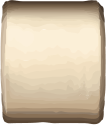
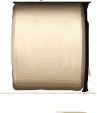
Slot machine: smaller machine, 3-layer glass tube, no bottom funnel; shadow, reel fixes, session report

diff --git a/tools/export_slot_machine.py b/tools/export_slot_machine.py
@@ -47,79 +47,99 @@ def part(idx, grow=6.0, with_sh=False, with_img=False):
 
 
 # ---- the finished machine (bottom right of the page) -----------------------------------------------------------------------
-print("cabinet, funnels, tube")
-img, at = part(range(376, 664))
+# The paint operators of the page come in this order (found by looking at where the clumps are on the page; the last line of the file said which index each
+# one has): the tube with its clamps and collar, the top funnel, the cabinet (frame, then the three reels, then the 8 lamp sockets), the Bag strip, the lever, ...
+# There is no bottom funnel any more (the tube starts right under the cabinet), and the whole machine is smaller than the first version.
+def clump_start(near):
+    for k, d in enumerate(S.dr):
+        r = d["rect"]
+        if abs(r.x0 - near[0]) < 2 and abs(r.y0 - near[1]) < 2:
+            return k
+    raise SystemExit("no path at %s" % (near,))
+
+
+print("cabinet, funnel, tube")
+FUNNEL_OPS = list(range(603, 891))
+BODY_OPS = list(range(891, 2648))
+REEL_OPS = list(range(2648, 2932))
+LAMPSOCKET_OPS = list(range(2932, 2940))
+LEVER_OPS = list(range(3294, 3461))
+for name, ops, ref in (("funnel", FUNNEL_OPS, (1746, 715)), ("lever", LEVER_OPS, (1703, 798))):
+    r = S.box(ops)
+    assert abs(r.x0 - ref[0]) < 8 and abs(r.y0 - ref[1]) < 8, (name, r)  # (the page was edited: look at the indexes again)
+
+img, at = part(FUNNEL_OPS)
 save("slot_funnel_top", img, at)
 
-body_idx = list(range(664, 2421))
-img, at = part(body_idx)
-# the window well behind the reels (the page has none: the reels fill it): dark, a touch lighter at the top
-well = pymupdf.Rect(1657.0, 685.0, 1827.0, 759.0)
+# the cabinet: the frame and the sockets of the lamps (the reels, the lamps and the lever are separate pieces)
+rbox = S.box(REEL_OPS[1:])  # (the first operator is the shadow of the window: it is not a reel)
+well = pymupdf.Rect(rbox.x0 - 5.0, rbox.y0 - 4.0, rbox.x1 + 5.0, rbox.y1 + 4.0)
+img, at = part(BODY_OPS + LAMPSOCKET_OPS)
+# the window well behind the reels (the page has none: the reels fill it): dark
 canvas = Image.new("RGBA", img.size, (0, 0, 0, 0))
 dr_ = ImageDraw.Draw(canvas)
 dr_.rectangle([(well.x0 - at[0]) * Z, (well.y0 - at[1]) * Z, (well.x1 - at[0]) * Z, (well.y1 - at[1]) * Z], fill=(34, 24, 19, 255))
 canvas.alpha_composite(img)
 save("slot_body", canvas, at)
 
-funnel, clamp, tube = [], [], []
-for i in range(0, 376):
-    d = S.dr[i]
-    r = d["rect"]
-    f = d.get("fill") or d.get("color") or (0, 0, 0)
-    dark = max(f) < 0.3 and abs(f[0] - f[2]) < 0.08
-    if r.y1 <= 871 and r.x0 > 1630 and f[0] > f[2] + 0.05 and f[0] < 0.7 and not dark:
-        funnel.append(i)
-    elif dark:
-        clamp.append(i)
-    else:
-        tube.append(i)
-img, at = part(funnel)
-save("slot_funnel_bottom", img, at)
-# the tube and its clamps share one canvas (the same top-left), so they lie exactly over each other
-box = S.box(tube + clamp)
-clip = pymupdf.Rect(box.x0 - 4, box.y0 - 4, box.x1 + 4, box.y1 + 4)
-for name, idx in (("slot_tube", tube), ("slot_tube_clamps", clamp)):
-    im = S.render(idx, clip, Z)
-    save(name, im, (clip.x0, clip.y0))
+# the glass tube is three layers, each drawn in its own frame on the left of the page (the three frames share one coordinate system with the "demo" frame, which
+# shows the tube as it looks assembled; the finished machine's tube has the very same size as the metal layer, so that is what gives the shift to the game):
+#   glass_under: under the Essence (normal, 100 %)   glass: over the Essence (Screen blend, 50 %)   metal (collars, clamps): over everything (normal, 100 %)
+FRAMES = {"slot_tube_glass": (439.56, 269.66, range(296, 457)), "slot_tube_metal": (687.85, 269.66, range(457, 587)),
+          "slot_tube_glass_under": (942.42, 269.66, range(587, 603))}
+mb = S.box(list(FRAMES["slot_tube_metal"][2]))
+fin = S.box(list(range(2, 296)))  # (the tube of the finished machine at the bottom right)
+assert abs(mb.width - fin.width) < 0.5 and abs(mb.height - fin.height) < 0.5, (mb, fin)
+sx = fin.x0 - (mb.x0 - FRAMES["slot_tube_metal"][0])  # game x of a frame's left edge
+sy = fin.y0 - (mb.y0 - FRAMES["slot_tube_metal"][1])
+union = None
+for name, (ox, oy, rg) in FRAMES.items():
+    b = S.box(list(rg))
+    b = pymupdf.Rect(b.x0 - ox, b.y0 - oy, b.x1 - ox, b.y1 - oy)
+    union = b if union is None else union | b
+for name, (ox, oy, rg) in FRAMES.items():
+    clip = pymupdf.Rect(ox + union.x0 - 4, oy + union.y0 - 4, ox + union.x1 + 4, oy + union.y1 + 4)
+    im = S.render(list(rg), clip, Z)
+    save(name, im, (sx + union.x0 - 4, sy + union.y0 - 4))
 
-# ---- the loose pieces (left of the machines) ---------------------------------------------------------------------------------
+# ---- the reels, the lever and the lamps of the finished machine ----------------------------------------------------------------
 print("reel, lever, lamps")
-reel_idx = list(range(5921, 6158))
-rbox = S.box(reel_idx)
+reel_idx = REEL_OPS[1:]
 third = rbox.width / 3.0
-mid = [i for i in reel_idx if rbox.x0 + third <= (S.dr[i]["rect"].x0 + S.dr[i]["rect"].x1) / 2 < rbox.x0 + 2 * third]
-img, at = part(mid, grow=4.0)
+thirds = [[i for i in reel_idx if rbox.x0 + k * third <= (S.dr[i]["rect"].x0 + S.dr[i]["rect"].x1) / 2 < rbox.x0 + (k + 1) * third + (0.01 if k == 2 else 0)] for k in range(3)]
+img, at = part(thirds[1], grow=4.0)
 save("slot_reel", img, at)
+reel_left = [S.box(t).x0 for t in thirds]
+reel_top = S.box(thirds[1]).y0
 
-lever_idx = list(range(3067, 3234))  # (the lever of the finished machine: the same drawing as the loose one, already in place)
-img, at = part(lever_idx, grow=28.0, with_sh=True, with_img=True)
+img, at = part(LEVER_OPS, grow=14.0, with_sh=True, with_img=True)
 save("slot_lever", img, at)
 
-lamp_idx = list(range(5905, 5921))
+# the lamps: the 8 shadings on the cabinet's strip are the lamps ON the page; the loose ones (left of the page) give the two pictures, scaled to the machine
+lamp_sh = sorted({round(x, 1) for ti, x, y in S.shadings if x > 1650 and 700 < y < 800 and abs(y - min(yy for _, xx, yy in S.shadings if xx > 1650 and yy > 700)) < 1.0})
+assert len(lamp_sh) == 8, lamp_sh
+lamp_y = min(yy for _, xx, yy in S.shadings if xx > 1650 and yy > 700)
+spacing = lamp_sh[1] - lamp_sh[0]
+lamp_zoom = Z * spacing / 22.83  # (the loose lamps are 22.83 pt apart on the page; the machine's are smaller)
+lamp_idx = list(range(6132, 6148))
 lbox = S.box(lamp_idx)
 clip = pymupdf.Rect(lbox.x0 - 20, lbox.y0 - 30, lbox.x1 + 20, lbox.y1 + 25)
 rows = {}
 for ti, x, y in S.shadings:
     if clip.x0 <= x <= clip.x1 and clip.y0 <= y <= clip.y1:
         rows.setdefault(round(y / 4.0), []).append((x, y, ti))
-print("  lamp rows (y):", {k * 4: len(v) for k, v in rows.items()})
 ys = sorted(rows)
 for name, key in (("slot_lamp_on", ys[0]), ("slot_lamp_off", ys[-1])):
-    lamps = sorted(rows[key])
-    x, y, _ = lamps[0]
+    x, y, _ = sorted(rows[key])[0]
     c = pymupdf.Rect(x - 12, y - 12, x + 12, y + 12)
     sh = [ti for ti, sx, sy in S.shadings if c.x0 <= sx <= c.x1 and c.y0 <= sy <= c.y1]
-    im = [ti for ti, x0, y0, x1, y1 in S.images if c.x0 <= (x0 + x1) / 2 <= c.x1 and c.y0 <= (y0 + y1) / 2 <= c.y1]
-    img = S.render([], c, Z, shadings=sh, images=im)
-    img, at = S.trim(img, Z, (c.x0, c.y0))
-    save(name, img, at)
-
-# where the 8 lamps of the finished machine are (centres): the 8 small pictures on its lamp strip
-lamp_sh = sorted({round(x, 1) for ti, x, y in S.shadings if abs(y - 668.3) < 1.0})
-assert len(lamp_sh) == 8, lamp_sh
+    img = S.render([], c, lamp_zoom, shadings=sh)
+    box_ = img.getchannel("A").point(lambda v: 255 if v > 6 else 0).getbbox()
+    img = img.crop(box_)
+    img.save(os.path.join(OUT, name + ".png"))
+    layout[name] = (x - 12 + box_[0] / lamp_zoom, y - 12 + box_[1] / lamp_zoom, img.width / lamp_zoom, img.height / lamp_zoom)
+    print("  %-22s %d x %d px" % (name, img.width, img.height))
 lamp_imgs = lamp_sh
-lamp_y = 668.3
-print("  lamp strip centres x:", [round(v, 1) for v in lamp_imgs], "y", round(lamp_y, 1))
 
 # ---- the port (end of the Bag strip) ---------------------------------------------------------------------------------------
 print("port")
@@ -132,14 +152,12 @@ for name, entry in (("slot_port", ports[0]), ("slot_port_ring", ports[1])):
     save(name, img, at)
 
 # ---- the lever's pulled place ----------------------------------------------------------------------------------------------
-# idle: the knob is straight above the hub; pulled (the machine at the top of the page): the knob is level with the hub, on its right
+# idle: the knob is straight above the hub (the silver ring at the bottom of the picture); pulled: the knob is level with the hub, on its right
 lv = layout["slot_lever"]
-hub = (lv[0] + lv[2] / 2.0, lv[1] + lv[3] - 13.0 - 3.0)  # (bottom of the picture is the hub's silver ring, 13 pt radius, 3 pt of margin)
-
-# ---- the reels' places (of the finished machine) -------------------------------------------------------------------------
+hub = (lv[0] + lv[2] / 2.0, lv[1] + lv[3] - lv[2] / 2.0)
 reel = layout["slot_reel"]
-reel_dx = [1662.0 + 0.5, 1716.0 + 0.5, 1769.0 + 0.5]  # (left edges of the three drums in the window)
-reel_y = 690.5
+reel_dx = [reel[0] + (k - 1) * third for k in range(3)]  # (the picture of the middle drum, moved by one drum pitch to each side)
+reel_y = reel_top
 
 with open(GD, "w", encoding="utf-8", newline="\n") as f:
     f.write("class_name PuppetSlotMachine\nextends RefCounted\n")
@@ -154,6 +172,7 @@ with open(GD, "w", encoding="utf-8", newline="\n") as f:
     f.write("const REEL_SIZE := Vector2(%.2f, %.2f)\n" % (reel[2], reel[3]))
     f.write("const LAMP_X := [%s]\n" % ", ".join("%.1f" % v for v in lamp_imgs))
     f.write("const LAMP_Y := %.1f\n" % lamp_y)
+    f.write("const LAMP_SIZE := Vector2(%.2f, %.2f)\n" % (layout["slot_lamp_on"][2], layout["slot_lamp_on"][3]))
     f.write("\n## The lever turns about its hub; PULLED_ANGLE is how far it turns (radians, clockwise on the screen) when it is pulled down.\n")
     f.write("const LEVER_HUB := Vector2(%.1f, %.1f)\nconst LEVER_PULLED_ANGLE := %.5f\n" % (hub[0], hub[1], math.pi / 2.0))
     f.write("\n## The port: where Essence come up out of the Bag strip (centre).\n")

diff --git a/docs/session_2026_10_17.md b/docs/session_2026_10_17.md
@@ -1,0 +1,21 @@
+# Báo cáo phiên làm việc 17/10/2026 — The Last Tree (Puppet Stage)
+
+## Đã hoàn thành
+
+1. **Làm lại hình 13 kẻ địch Act 1.** Viết lại prompt và tạo ảnh mới (Forge Spirit, Greenseer, Hush Moth, Invoker, Mirror Fairy, hai Rolling Bear, Tomato Knight, ba Triplet, Winged Tortoise, Yeti), tách nền bằng BiRefNet, giữ nguyên kích thước gốc và đưa vào game. Tách ba quả cầu của Invoker để chúng lơ lửng trên lòng bàn tay.
+2. **Sửa công cụ tạo ảnh nhiều tài khoản (ImageSet).** Phát hiện lỗi vẽ lại cả những ảnh đã có khi chạy lại, gây lãng phí lượt và thời gian; đã sửa và thêm test.
+3. **Chế độ gắn dây cho kẻ địch (phím F5 trong Room Test).** Chia kẻ địch theo bộ 4 con, gắn / kéo / xóa rivet bằng chuột, dây kéo theo khi kẻ địch di chuyển. Dây hiển thị trong các trận thật; dữ liệu lưu ở `data/enemy_ropes.json` (có file dự phòng).
+4. **Boss Handyman.** Cập nhật theo file PDF mới (tay Shield sang trái, Sword sang phải), các tay chưa được gọi thì không hiện, tay Nhíp chọc đúng quả orb cần trộm và kéo mượt về hàng HP; sửa lỗi crash khi trộm orb.
+5. **Bản đồ.** Node vừa rời đi hiện biểu tượng "đã đi qua".
+6. **Làm lại hoàn toàn máy tạo orb (slot machine).**
+   - Tách file thiết kế PDF thành các mảnh (thân máy, phễu, ba trục, cần gạt, đèn, ống thủy tinh ba lớp, miệng ống) bằng một công cụ tự động; cập nhật lại mỗi khi sửa PDF.
+   - Luồng mới: cần gạt kéo, ba trục quay 2 giây rồi dừng đúng các orb của lượt sau; đến lượt, orb thật rơi từ sau máy, đi qua ống thủy tinh và lăn vào túi.
+   - Orb thưởng (thẻ bài, chai, artifact...) đi từ phễu trên xuống ống rồi vào túi, độc lập với máy.
+   - Sửa lỗi túi có sẵn orb khi bắt đầu trận; thêm bóng đổ phía sau máy.
+7. **Hợp nhất nhánh `main` vào `Banana-Fork`** (9 commit mới), xử lý một xung đột.
+
+## Còn tồn đọng / việc tiếp theo
+- Test `test_new_commons` đang báo lỗi (khác một dấu chấm cuối câu trong mô tả spell, liên quan nội dung mới của `main`).
+- Dây hiển thị trong trận thật nhưng người chơi chỉ có thể chỉnh trong chế độ F5 của Room Test; kẻ địch còn lại cần được gắn dây.
+- Lớp kính ống hiện trong suốt hơn bản cũ (theo đúng ghi chú Screen 50% của file thiết kế); nếu cần đặc hơn thì phải vẽ thêm lớp nền.
+- Âm thanh máy chỉ có `sfx_lever_pull` và `sfx_reel_stop` (cố ý ít tiếng).

diff --git a/docs/art_progress.md b/docs/art_progress.md
@@ -133,3 +133,6 @@ Source of truth for art: `assets/ui/Fight UI.pdf`, cut into `assets/ui/new/<fold
 - Done: encounter flow (props clear, cards fly in after Begin; "Begin" goes straight in, no "getting stage ready" text), white Leave text in the shop, hover disabled while a card moves, Spellbook button gone after a fight, a single artifacts frame (HudBar art row hidden in a stage fight), opaque visited ring on the map.
 - Done: bug fixes found by tests (HP text, spell row width, amber counter, enemy floor lift, ball stalls, chant orb drag zone); tests `ball_stress`, `chant_drag_stress`, `fight_cycle_test`, `stage_encounter_test`, `menu_actors_test` (check_scripts 98/0, run_tests 105/0).
 - To check by eye/ear: all new audio and animations, HP-text bug in a real play, burn-push out of the floor, brass slot strip came out dark, some map icons are 4/10 (vintage look), `docs/missing_icon.txt` leftovers (merchant full body done, 5 intent icons done; others open).
+
+
+**2026-10-17 (session):** see docs/session_2026_10_17.md (Act 1 enemy redo, rope mode F5 + ropes in fights, Handyman PDF swap + tweezer poke, slot machine from Slot_machine.pdf, merge of origin/main). To do: gắn dây cho mọi kẻ địch còn lại; test_new_commons trượt (dấu chấm trong text spell).
